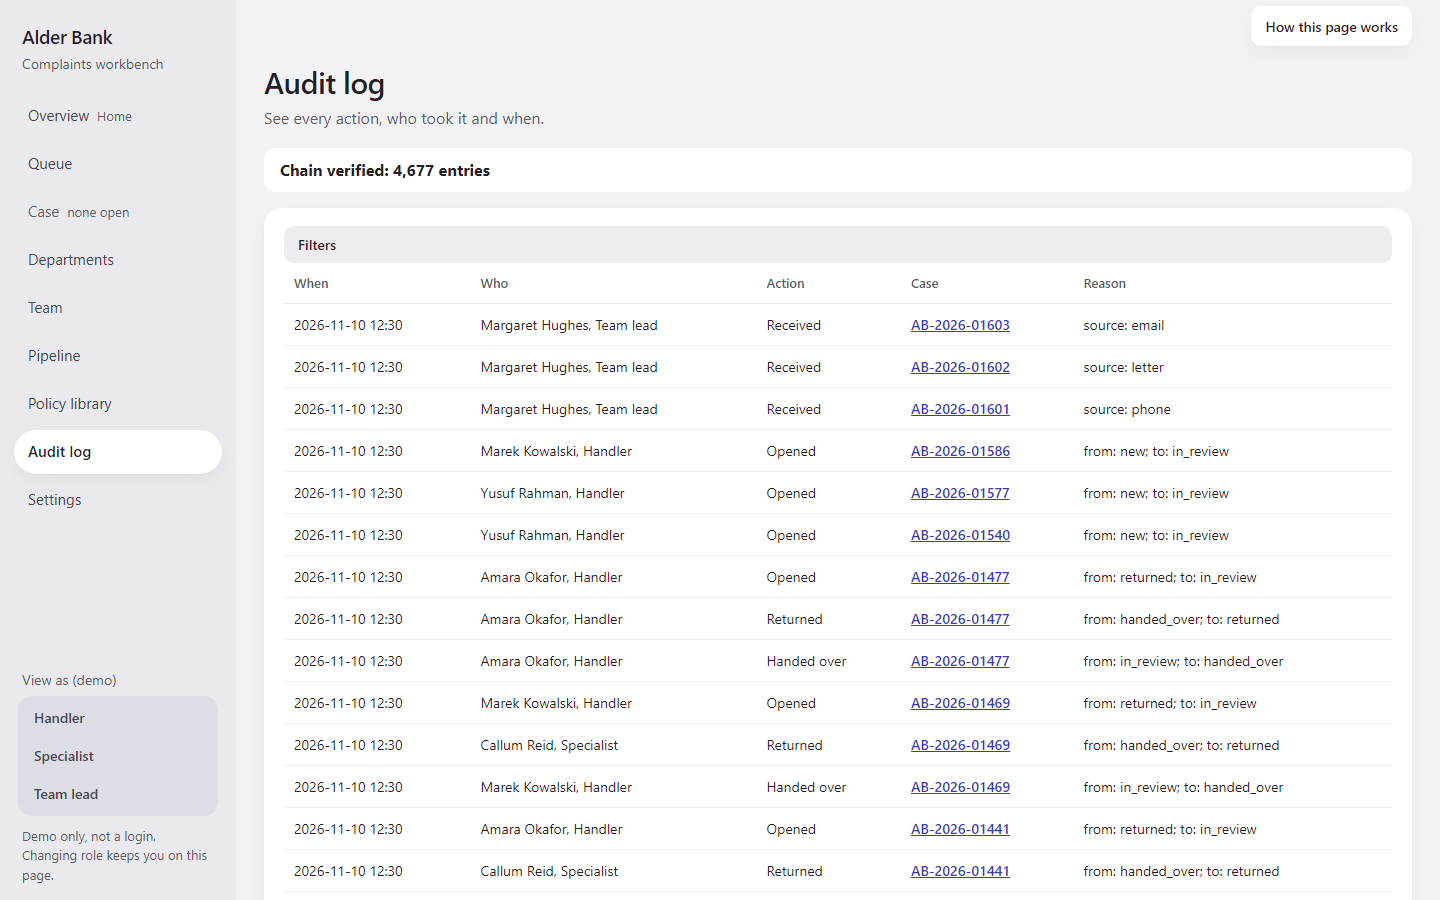
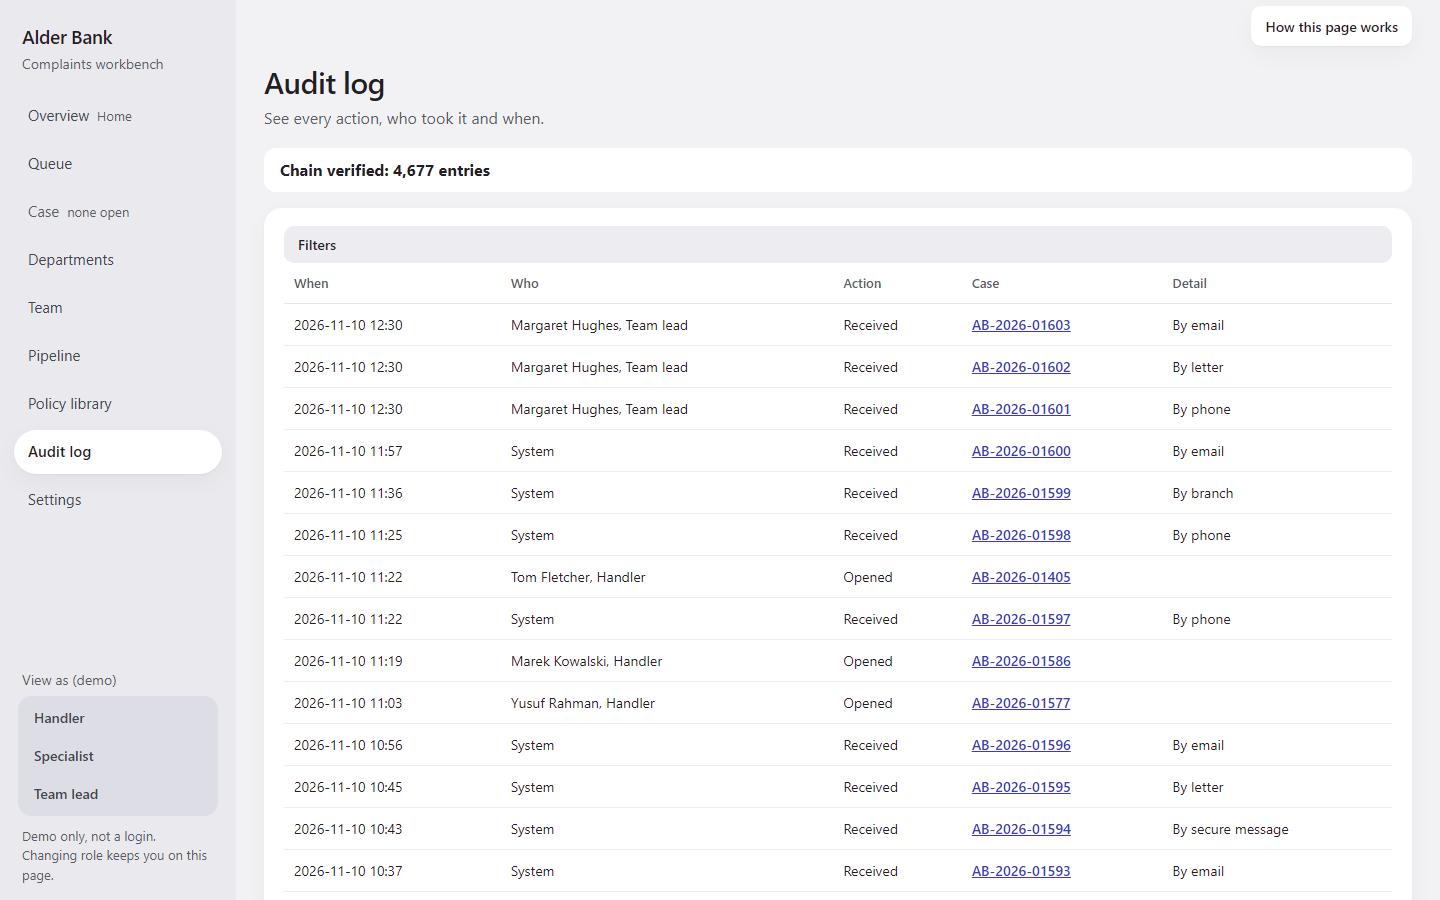
fix: generated audit entries

diff --git a/workbench/app.py b/workbench/app.py
@@ -1,6 +1,7 @@
 """Web app: shell, role switcher, deadline strip and the Queue. Routes never change a case themselves;
 they call workbench.cases and show its NotAllowed and StaleCase messages as plain text."""
 import contextlib
+import json
 import os
 import re
 import socket
@@ -67,6 +68,19 @@ def strip(conn, cfg, edge: str) -> dict:
             "urgent": one(f"SELECT COUNT(*) FROM cases WHERE {open_}urgent = 1"),
             "rises": len(rises), "rise_query": urlencode({"owner": "all", "department": rises[0][0], "type": rises[0][1]}) if rises else "",
             "limit": limit, "updated": audit.now()[11:16]}
+
+
+def _plain(r) -> str:
+    """The Detail column in plain words: the reason if there is one, how a complaint came in, else nothing."""
+    try:
+        d = json.loads(r["detail_json"] or "{}")
+    except ValueError:
+        return ""
+    if not isinstance(d, dict):
+        return ""
+    if d.get("reason"):
+        return str(d["reason"])
+    return f'By {d["source"]}' if r["action"] == "received" and d.get("source") else ""
 
 
 def create_app(db_path="data/workbench.db", config_path="config/pipeline.yaml", models_dir=MODELS_DIR) -> FastAPI:
@@ -295,7 +309,7 @@ def create_app(db_path="data/workbench.db", config_path="config/pipeline.yaml", 
         broken = audit.verify_chain(conn)
         everything = conn.execute("SELECT COUNT(*) FROM audit").fetchone()[0]
         keep = {k: v for k, v in (("case", case), ("actor", actor)) if v}
-        return {"rows": [{**dict(r), "what": audit.describe(r["detail_json"]), "when": r["at"][:16].replace("T", " "),
+        return {"rows": [{**dict(r), "what": _plain(r), "when": r["at"][:16].replace("T", " "),
                           "by": "System" if r["actor_id"] == "system" else f'{r["who"] or r["actor_id"]}, {r["role"].replace("_", " ").capitalize()}'} for r in got], "people": people, "case": case, "actor": actor,
                 "page_no": pg, "pages": pages, "chain": "Chain verified: " + f"{everything:,} entries" if broken is None else f"Chain broken at entry {broken}",
                 "chain_ok": broken is None, "link": lambda p: "/audit?" + urlencode({**keep, "page": p})}

diff --git a/workbench/generate.py b/workbench/generate.py
@@ -572,7 +572,10 @@ def generate(conn: sqlite3.Connection, *, n: int = 1600, seed: int = 7, cfg: dic
         for k, s in enumerate(_history(st, rc)):
             if k:
                 lo, hi = DELAY_H["in_review" if s == "in_review" else s]
-                t = min(t + timedelta(hours=rng.uniform(lo, hi)), now)
+                nt = t + timedelta(hours=rng.uniform(lo, hi))
+                if nt > now:  # do not pile recent moves onto "now": land halfway, so times stay in order
+                    nt = max(t + (now - t) / 2, t + timedelta(seconds=1))
+                t = nt
             at = t.isoformat(timespec="seconds")
             frm = None if k == 0 else prev
             actor = "system" if k == 0 else (spec if s in ("returned", "accepted") else handler)
@@ -650,8 +653,9 @@ def generate(conn: sqlite3.Connection, *, n: int = 1600, seed: int = 7, cfg: dic
     conn.execute("DELETE FROM sqlite_sequence WHERE name='audit'")
     conn.execute("CREATE TRIGGER audit_no_delete BEFORE DELETE ON audit BEGIN SELECT RAISE(ABORT, 'audit log is append-only'); END")
     role_of = {s[0]: s[2] for s in STAFF} | {"system": "system"}
+    src = {r[0]: r[2] for r in case_rows}
     for cid, at, kind, frm, to, actor in sorted(ev_rows, key=lambda r: r[1]):
-        audit.append(conn, actor_id=actor, role=role_of[actor], action=kind, case_id=cid, detail={"from": frm, "to": to}, at=at)
+        audit.append(conn, actor_id=actor, role=role_of[actor], action=kind, case_id=cid, detail={"source": src[cid]} if kind == "received" else {"from": frm, "to": to}, at=at)
     if adv_path and adv:
         ids = [cases[i]["id"] for i in adv]
         Path(adv_path).write_text(json.dumps({"hidden_instruction": ids[0:2], "unusual_format": ids[2:4],

diff --git a/tests/test_generate.py b/tests/test_generate.py
@@ -361,3 +361,21 @@ def test_audit_entry_for_every_generated_move(db):
     assert db.execute("SELECT COUNT(*) FROM audit").fetchone()[0] == db.execute("SELECT COUNT(*) FROM events").fetchone()[0] > 0
     assert audit.verify_chain(db) is None
     assert db.execute("SELECT actor_id, role FROM audit WHERE action='received' LIMIT 1").fetchone()[:] == ("system", "system")
+
+
+def test_generated_audit_times_actors_and_words(db):
+    rows = db.execute("SELECT * FROM audit ORDER BY id").fetchall()
+    assert len({r["at"] for r in rows}) > 100  # real history, not one moment
+    by_case: dict = {}
+    for r in rows:
+        by_case.setdefault(r["case_id"], []).append(r)
+    for rs in by_case.values():
+        ats = [r["at"] for r in rs]
+        assert ats == sorted(set(ats)), rs[0]["case_id"]  # strictly increasing within a case
+    spec = {"Fraud claims": "S1", "Financial difficulty": "S2", "Data protection": "S3"}
+    dept = dict(db.execute("SELECT id, department FROM cases").fetchall())
+    for r in rows:
+        if r["action"] in ("returned", "accepted") and dept[r["case_id"]] in spec and r["actor_id"] != "T1":
+            assert r["actor_id"] == spec[dept[r["case_id"]]]
+        if r["action"] == "opened":
+            assert r["role"] == "handler" or r["actor_id"] == "T1"

diff --git a/tests/test_views_work.py b/tests/test_views_work.py
@@ -140,3 +140,12 @@ def test_audit_page_names_people_without_seconds(client):
     import re
     assert not re.search(r"\d\d:\d\d:\d\d", html)
     assert html.index("Filters") < html.index("<table")
+
+
+def test_audit_detail_is_plain_words(client):
+    import re
+    client.cookies.set("role", "team_lead"); client.cookies.set("staff_id", "T1")  # noqa: E702
+    html = client.get("/audit").text
+    body = html[html.index("<tbody>"):html.index("</tbody>")]
+    assert "_" not in re.sub(r'href="[^"]*"|<[^>]*>', "", body) and "from:" not in body and "source:" not in body
+    assert "By " in body
